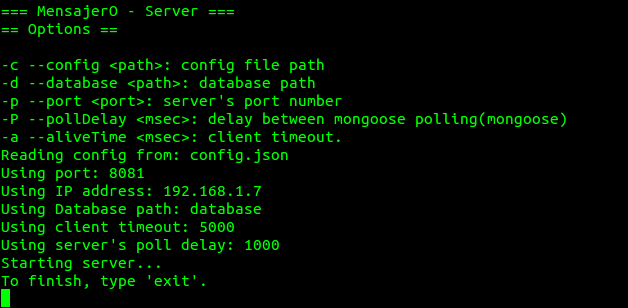
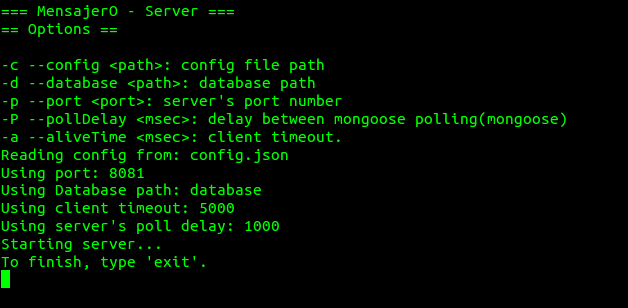
fixed #91 - manuales actualizados

Changed region(s): [[0.0, 0.5844, 0.4538, 1.0]]

diff --git a/doc/Manual MensajerO/source/docs/Configuracion server.rst b/doc/Manual MensajerO/source/docs/Configuracion server.rst
@@ -9,13 +9,11 @@ Por lo tanto, antes de empezar a utilizar MensajerO!, debes ingresar el número 
 Consultando el número de IP.
 ----------------------------
 
-Ponete en contacto con el administrador del servidor de MensajerO!.
-En la pantalla principal del servidor aparecerá información sobre su número de IP.
+Ponete en contacto con el administrador del servidor de MensajerO! para que te indique la dirección IP que tenés que usar.
 
-.. figure::  images/showIP.png
-   :align:   center
+El número de IP debería tener un formato de 4 números separados por puntos.
 
-   *Al iniciar, el servidor te indicará cual es su número de IP.*
+Por ejemplo, la dirección IP que usaremos de ejemplo es la *192.168.1.7*
 
 Asignando el número de IP.
 --------------------------

diff --git a/doc/Manual de Administrador + Get Started/source/docs/Configuracion server.rst b/doc/Manual de Administrador + Get Started/source/docs/Configuracion server.rst
@@ -117,12 +117,6 @@ Ejemplo de uso::
 	./run.sh --port 8081
 
 
-Dirección IP.
-.............
-
-Aunque este no es un parametro que se pueda configurar manualmente, se muestra para facilitarle al usuario de MensajerO! la configuración de este número dentro de la aplicación.
-
-
 Ruta de la Base de Datos.
 .........................
 
